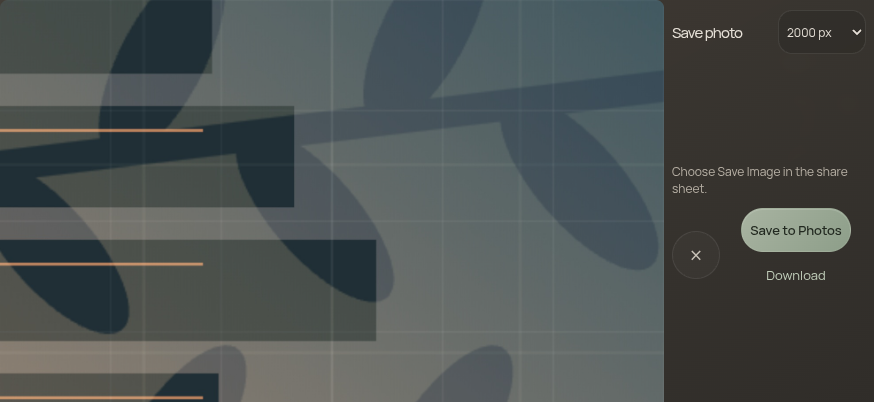
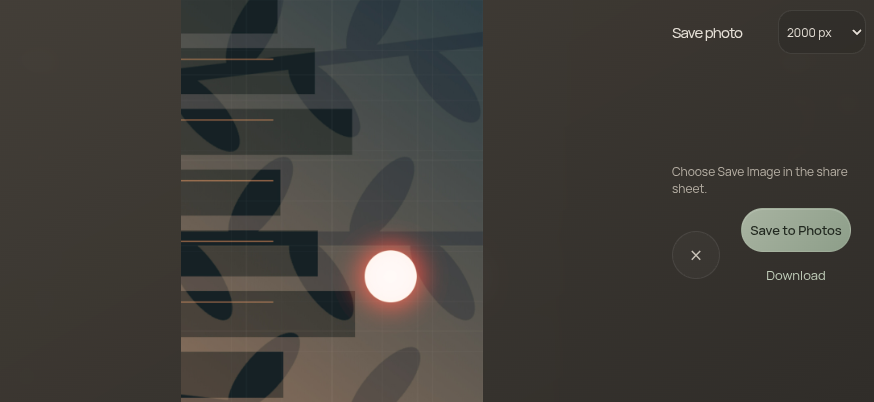
fix: contain export image within its landscape preview

diff --git a/src/lighttable/ui/adaptive.css b/src/lighttable/ui/adaptive.css
@@ -134,8 +134,8 @@
  .export-dialog .sheet-heading{grid-column:2;grid-row:1;display:flex;flex-direction:row;align-items:center;gap:8px;padding:8px;margin:0}
  .export-dialog .sheet-heading h1{font-size:15px;margin:0;flex:1}
  .export-dialog .sheet-heading select{min-width:88px;min-height:44px;font-size:12px;padding:4px}
- .export-dialog .export-preview{grid-column:1;grid-row:1/-1;min-width:0;min-height:0;height:100%;margin:0;padding:0;display:grid;place-items:center}
- .export-dialog .export-preview img{max-width:100%;max-height:100%;object-fit:contain}
+ .export-dialog .export-preview{grid-column:1;grid-row:1/-1;min-width:0;min-height:0;height:100%;margin:0;padding:0;display:grid;grid-template-columns:minmax(0,1fr);grid-template-rows:minmax(0,1fr);place-items:center}
+ .export-dialog .export-preview img{width:100%;height:100%;min-width:0;min-height:0;max-width:100%;max-height:100%;object-fit:contain}
  .export-dialog .sheet-dock{grid-column:2;grid-row:2;border:0;border-radius:0;box-shadow:none;background:transparent;backdrop-filter:none;-webkit-backdrop-filter:none;padding:8px;overflow:auto;align-self:stretch;display:flex;flex-direction:column;justify-content:center}
  .export-dialog .sheet-actions{display:flex;flex-wrap:wrap;gap:6px;justify-content:center}
  .export-dialog .export-ready{display:flex;flex-direction:column;gap:6px;min-width:120px}
